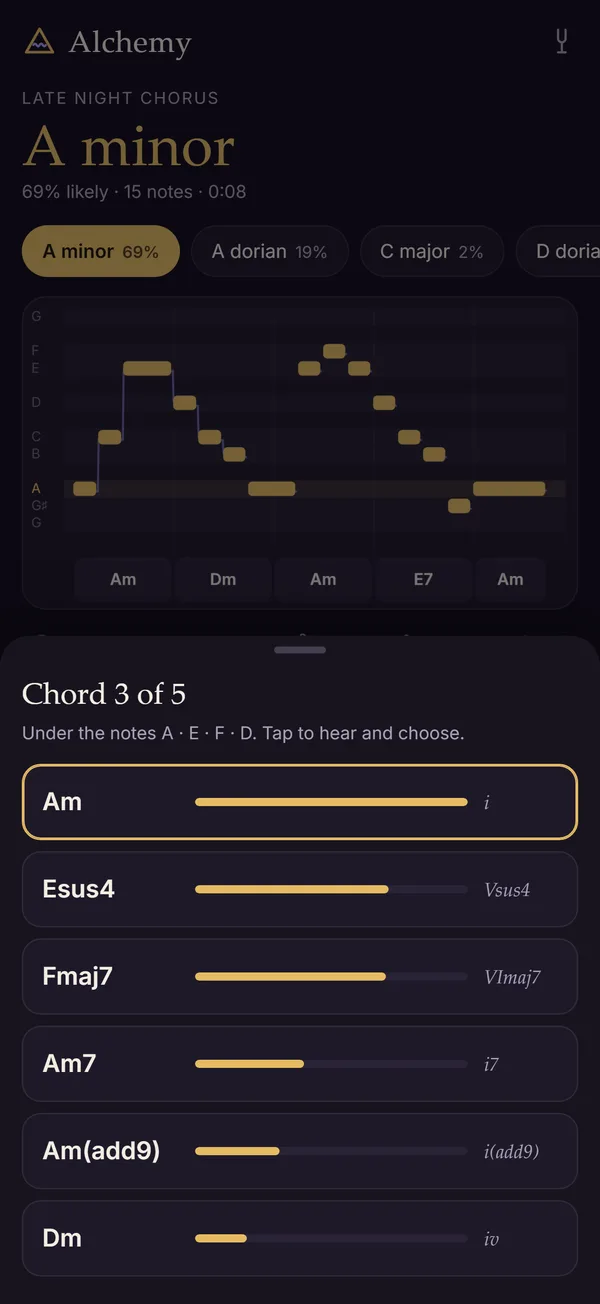
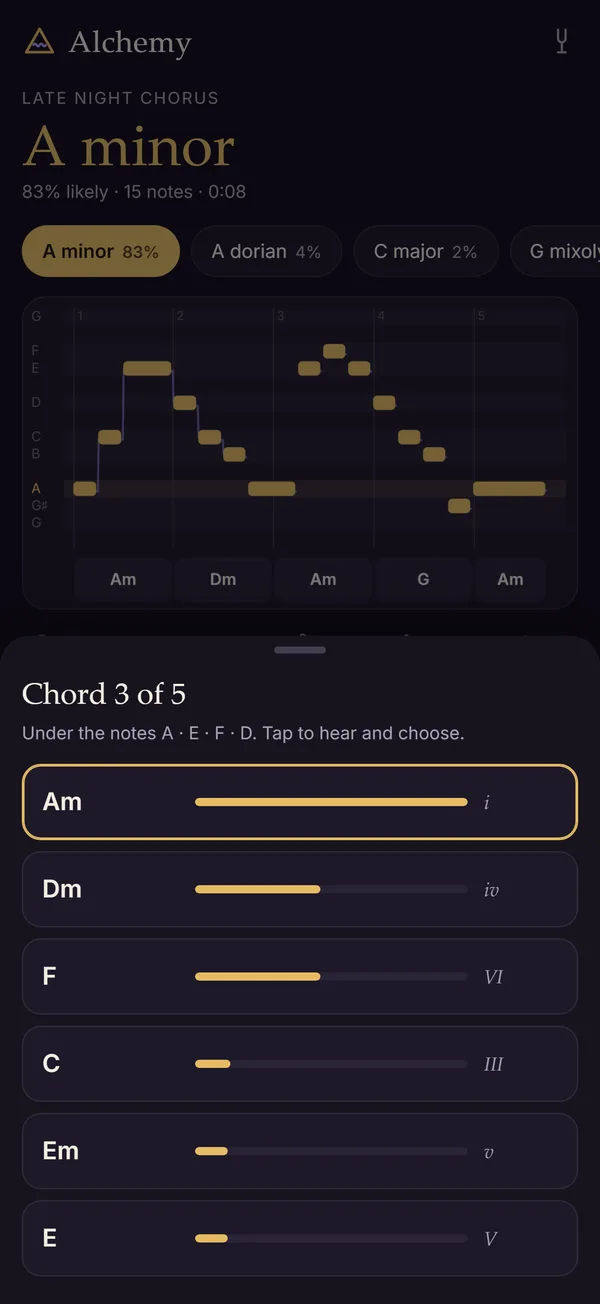
About page: all seven modes, free and Pro, new screens; support and privacy updated
- Home: leads with finding the key of the melody in your head; all seven modes;
  what Alchemy Pro adds; current screenshots (no borrowed/chromatic chords)
- Support: key and bar-line help, current control names, Pro and restoring it,
  iOS 16
- Privacy: purchases (handled by Apple) and device backups

diff --git a/index.html b/index.html
@@ -4,10 +4,10 @@
   <meta charset="utf-8">
   <meta name="viewport" content="width=device-width, initial-scale=1, viewport-fit=cover">
   <title>Alchemy: Melody to Chords for iPhone</title>
-  <meta name="description" content="Sing, hum or play a melody and Alchemy finds its key and a chord progression that fits. For iPhone. No account, no ads, nothing leaves your phone.">
+  <meta name="description" content="Sing the melody in your head and Alchemy finds the key it fits, in all seven modes, and chords to go with it. A composition tool for iPhone. No account, no ads, nothing leaves your phone.">
   <meta name="theme-color" content="#120f1a">
   <meta property="og:title" content="Alchemy: Melody to Chords">
-  <meta property="og:description" content="Hum a melody. Get the chords. Alchemy finds the key and a progression that fits.">
+  <meta property="og:description" content="Sing the tune in your head. Alchemy finds the key it fits, and chords to match.">
   <meta property="og:image" content="assets/harmony.webp">
   <link rel="icon" href="assets/icon.svg" type="image/svg+xml">
   <link rel="apple-touch-icon" href="assets/apple-touch-icon.png">
@@ -23,13 +23,13 @@
       <div class="hero-grid">
         <div>
           <p class="eyebrow">For iPhone</p>
-          <h1>Hum a melody. <em>Get the chords.</em></h1>
-          <p class="lead">Alchemy listens to the tune in your head, finds the key it's in and suggests a chord progression that fits. Turn a hummed idea into a song you can play.</p>
+          <h1>Sing the tune in your head. <em>Find its key.</em></h1>
+          <p class="lead">Alchemy listens to the melody you sing, finds the key it fits and the chords that go with it. A composition tool for songwriters and singers: from a hummed idea to a song you can play.</p>
           <!-- When the app is live, replace this with Apple's official
                "Download on the App Store" badge linking to the app. -->
           <span class="store soon"><span><small>Coming soon to the</small>App Store</span></span>
         </div>
-        <div class="phone"><img src="assets/harmony.webp" alt="Alchemy showing a melody in A minor with the chords Am, Dm, Am, E7 and Am underneath it"></div>
+        <div class="phone"><img src="assets/harmony.webp" alt="Alchemy showing a melody in A minor over five numbered bars, with the chords Am, Dm, Am, G and Am underneath it"></div>
       </div>
     </div>
   </header>
@@ -41,8 +41,8 @@
         <p class="section-lead">No music theory needed. If you can hum it, Alchemy can work out what goes with it.</p>
         <ol class="steps">
           <li><h3>Sing, hum or play</h3><p>Tap record and perform your idea. Your pitch draws live as you go, from your voice or any instrument.</p></li>
-          <li><h3>See the key</h3><p>Alchemy picks out every note and finds the key, including Dorian and Mixolydian modes.</p></li>
-          <li><h3>Choose your chords</h3><p>Get a progression that fits your melody. Tap any chord to hear what else would work.</p></li>
+          <li><h3>Find your key</h3><p>Alchemy picks out every note and finds the key your melody fits, in all seven modes. It listens like a singer does: which notes you sing and hold, and where your phrases come to rest.</p></li>
+          <li><h3>Choose your chords</h3><p>Get a progression built around your melody, on its own beat and bars. Tap any chord to hear what else would work.</p></li>
         </ol>
       </div>
     </section>
@@ -53,7 +53,7 @@
         <p class="section-lead">Everything you need to catch an idea before it slips away, then grow it into a song.</p>
         <div class="gallery">
           <figure><div class="phone"><img src="assets/capture.webp" alt="Recording screen with a live pitch line" loading="lazy"></div><figcaption>Your pitch, live</figcaption></figure>
-          <figure><div class="phone"><img src="assets/alternatives.webp" alt="A list of alternative chords ranked by fit" loading="lazy"></div><figcaption>Alternatives for every bar</figcaption></figure>
+          <figure><div class="phone"><img src="assets/alternatives.webp" alt="A list of alternative chords ranked by fit" loading="lazy"></div><figcaption>Alternatives for every chord</figcaption></figure>
           <figure><div class="phone"><img src="assets/tracks.webp" alt="Tracks mixer with take, chords, guide melody and click" loading="lazy"></div><figcaption>Layer more parts</figcaption></figure>
           <figure><div class="phone"><img src="assets/library.webp" alt="Library of saved takes with their keys and chords" loading="lazy"></div><figcaption>Every idea, saved</figcaption></figure>
         </div>
@@ -66,11 +66,26 @@
         <p class="section-lead">Careful listening and real harmony, in an app that stays out of your way.</p>
         <div class="features">
           <div><h3>Accurate note detection</h3><p>Follows your notes through vibrato, slides and drifting pitch, and hears quiet singing too.</p></div>
-          <div><h3>Your harmony</h3><p>Several progressions in each key, from simple triads to 7ths and borrowed chords, changing every two bars or on every beat.</p></div>
-          <div><h3>Sounds and styles</h3><p>Hear your chords on piano, guitar, organ, strings, marimba or a warm pad: held, strummed, on the beat or as an arpeggio.</p></div>
-          <div><h3>Layers and count-in</h3><p>Record harmonies, instruments or beats over your take, with a count-in and loop recording.</p></div>
-          <div><h3>Lock to the beat</h3><p>Tighten the timing of your melody, and gently tune your voice if you like.</p></div>
-          <div><h3>MIDI export</h3><p>Send melody, chords and bass to GarageBand, Logic or any DAW. Or share a chord chart as text.</p></div>
+          <div><h3>All seven modes</h3><p>Major and minor, and Dorian, Mixolydian, Lydian, Phrygian and Locrian when your melody asks for them, with how likely each key is.</p></div>
+          <div><h3>Your harmony</h3><p>Chords that fit your melody, changing every two bars or as often as every beat, on bar lines you can see and move.</p></div>
+          <div><h3>Layers and count-in</h3><p>Record a harmony, an instrument or a beat over your take, with a metronome, count-in and loop recording.</p></div>
+          <div><h3>Bring in Voice Memos</h3><p>Share a voice memo or any audio file to Alchemy and find its key and chords.</p></div>
+          <div><h3>Your library</h3><p>Save every idea, as many as you like, and share any chord chart as text.</p></div>
+        </div>
+      </div>
+    </section>
+
+    <section>
+      <div class="wrap">
+        <h2>Free, with <em>Alchemy Pro</em></h2>
+        <p class="section-lead">Alchemy is free to download and use. Alchemy Pro is a one-time purchase, shared with your family through Family Sharing, that adds:</p>
+        <div class="features">
+          <div><h3>More progressions</h3><p>Several progressions to choose from in each key.</p></div>
+          <div><h3>Extended chords</h3><p>7ths, 6ths, sus and add9 chords where your melody calls for them.</p></div>
+          <div><h3>Sounds and styles</h3><p>Guitar, organ, strings and marimba; strummed, arpeggio, and bass &amp; chord.</p></div>
+          <div><h3>Up to 6 layers</h3><p>Build fuller arrangements, and keep every pass of a loop recording.</p></div>
+          <div><h3>Tune and lock to beat</h3><p>Tighten the timing of your melody, and gently tune your voice.</p></div>
+          <div><h3>MIDI export</h3><p>Send melody, chords and bass to GarageBand, Logic or any DAW.</p></div>
         </div>
       </div>
     </section>

diff --git a/support.html b/support.html
@@ -19,7 +19,7 @@
   </div>
   <main class="wrap doc">
     <h1>Support</h1>
-    <p class="intro">Questions, problems or ideas? Email <a href="mailto:mediavanity@gmail.com">mediavanity@gmail.com</a>. Please include your iPhone model, your iOS version, and what you were recording.</p>
+    <p class="intro">Questions, problems or ideas? Email <a href="mailto:mediavanity@gmail.com">mediavanity@gmail.com</a>. Please include your iPhone model, your iOS version, and what you were recording. Alchemy needs iOS 16 or later.</p>
 
     <h2>Alchemy doesn't hear me</h2>
     <p>Check that Alchemy has microphone access in Settings › Privacy &amp; Security › Microphone. For quiet singing, hold your iPhone about 30 cm (a foot) away, and record away from loud background noise.</p>
@@ -27,11 +27,23 @@
     <h2>How do I import a Voice Memo?</h2>
     <p>In Voice Memos, tap the recording, tap <b>⋯</b>, then <b>Share</b>, and choose <b>Alchemy</b>. If Alchemy isn't listed, scroll to the end of the row of apps, tap <b>More</b> and add it. You can also open any audio file from Files with <b>Import audio</b> on the Capture screen.</p>
 
-    <h2>How do I get my song into GarageBand or another DAW?</h2>
-    <p>On the Harmony screen, tap the share button, then <b>MIDI file</b>. You get separate melody, chords and bass tracks, laid out on the beat.</p>
+    <h2>The key isn't what I expected</h2>
+    <p>Alchemy shows the likeliest keys in a row under the title, with how likely each one is; tap another to use it. It judges the key from the notes you sing and hold, and above all the note you end on, so a phrase that stops before it comes home can point somewhere else. Try singing the idea through to where it feels finished.</p>
 
     <h2>The chords don't sound right</h2>
-    <p>Try another key from the row of keys under the title, tap <b>Another idea</b> for a different progression, or tap any chord to choose an alternative. <b>Chord every</b> changes how often the chord can change.</p>
+    <p>Try another key from the row of keys, or tap any chord to choose an alternative. <b>Chords can change every</b> sets how often the chord may change: every 2 bars, every bar, every half bar or on any beat. With Alchemy Pro, <b>Progressions</b> offers other progressions in the same key.</p>
+
+    <h2>The bar lines are in the wrong place</h2>
+    <p>Press and hold the tempo on the Harmony screen. There you can set the tempo, the time signature and which beat your first note falls on. Recording with the count-in gives exact bars from the start.</p>
+
+    <h2>How do I get my song into GarageBand or another DAW?</h2>
+    <p>With Alchemy Pro, tap the share button on the Harmony screen, then <b>MIDI file</b>. You get separate melody, chords and bass tracks, laid out on the beat.</p>
+
+    <h2>What does Alchemy Pro include?</h2>
+    <p>More progressions in each key, extended chords, four more chord sounds and three more playing styles, up to 6 layers, Tune and lock to beat, and MIDI export. It's a one-time purchase, shared with your family through Family Sharing. Tap <b>Upgrade</b> at the top of the app to see it.</p>
+
+    <h2>How do I get Pro back on a new iPhone?</h2>
+    <p>Pro comes back by itself when you're signed in with the Apple Account you bought it with. If it doesn't, tap <b>Upgrade</b>, then <b>Restore purchases</b>.</p>
 
     <h2>Where are my recordings stored?</h2>
     <p>Only on your iPhone. Alchemy has no accounts and sends nothing anywhere. Deleting the app deletes your saved takes, so export anything you want to keep first. See the <a href="privacy.html">privacy policy</a>.</p>

diff --git a/privacy.html b/privacy.html
@@ -19,7 +19,7 @@
   </div>
   <main class="wrap doc">
     <h1>Privacy Policy</h1>
-    <p class="date">Last updated: November 13, 2026</p>
+    <p class="date">Last updated: November 15, 2026</p>
 
     <h2>The short version</h2>
     <p>Alchemy for iPhone does not collect any of your data, store it on a server, or share it. Everything you record stays on your device.</p>
@@ -28,10 +28,13 @@
     <p>Alchemy uses the microphone only while you are recording, so it can find the notes, key and chords of what you sing or play. The audio is analysed on your iPhone and is never uploaded.</p>
 
     <h2>Your recordings and library</h2>
-    <p>Takes you save are stored only in the app's storage on your device. They are deleted when you delete them in the Library or remove the app. They are shared only when you choose to share a chord chart or MIDI file through the iOS share sheet.</p>
+    <p>Takes you save are stored only in the app's storage on your device, and in your own iPhone backups if you use them. They are deleted when you delete them in the Library or remove the app. They are shared only when you choose to share a chord chart or MIDI file through the iOS share sheet.</p>
 
     <h2>Files you send to Alchemy</h2>
     <p>Audio you share to Alchemy from other apps, such as Voice Memos, is copied into the app and analysed on your device. It is never uploaded.</p>
+
+    <h2>Purchases</h2>
+    <p>Alchemy Pro is bought through the App Store. Apple handles the payment; Alchemy never sees your payment details or your Apple Account. The app only asks the App Store whether Pro has been bought on your Apple Account.</p>
 
     <h2>Analytics, ads and tracking</h2>
     <p>The app contains no analytics, advertising or tracking code, and does not track you across apps or websites. This website does not use cookies or analytics either.</p>
